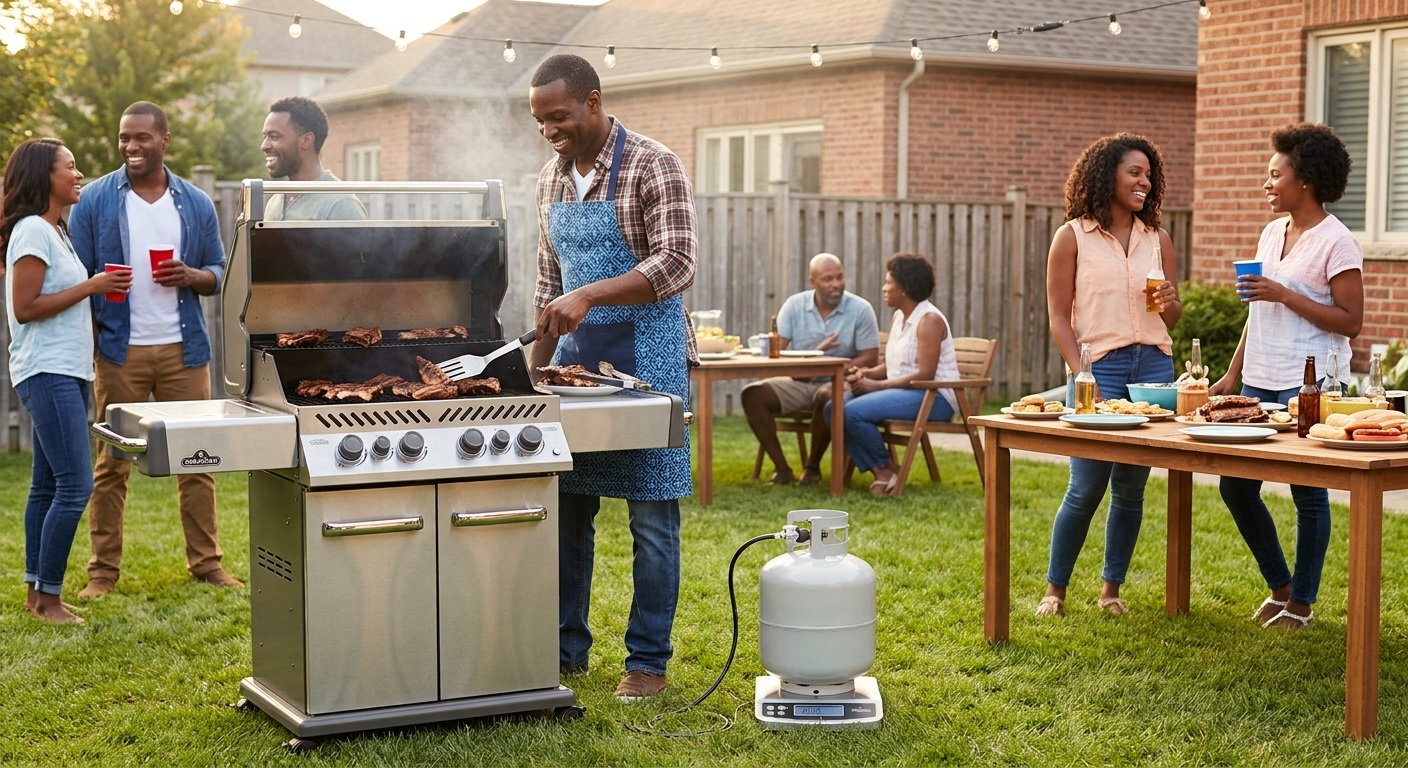
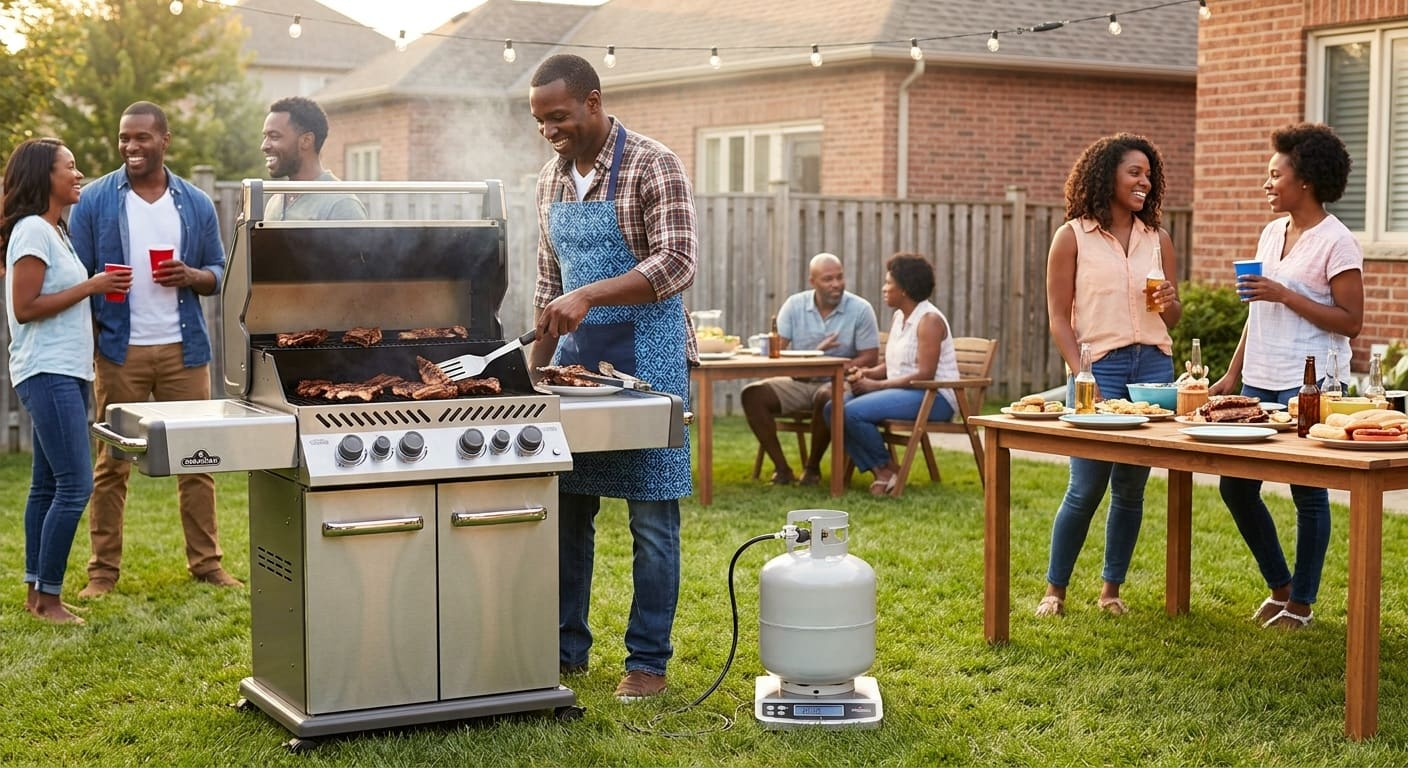
....

diff --git a/gas-monitor-web/components/HeroSlider.tsx b/gas-monitor-web/components/HeroSlider.tsx
@@ -1,5 +1,6 @@
 'use client';
 
+import Image from 'next/image';
 import { useEffect, useRef, useState } from 'react';
 
 type Slide = {
@@ -34,11 +35,14 @@ export default function HeroSlider() {
   return (
     <div className="hero-photo" aria-hidden={false}>
       {SLIDES.map((slide, index) => (
-        // eslint-disable-next-line @next/next/no-img-element
-        <img
+        <Image
           key={slide.src}
           src={slide.src}
           alt={index === active ? slide.alt : ''}
+          fill
+          sizes="100vw"
+          priority={index === 0}
+          loading={index === 0 ? undefined : 'lazy'}
           className={`hero-photo-slide${index === active ? ' is-active' : ''}`}
         />
       ))}